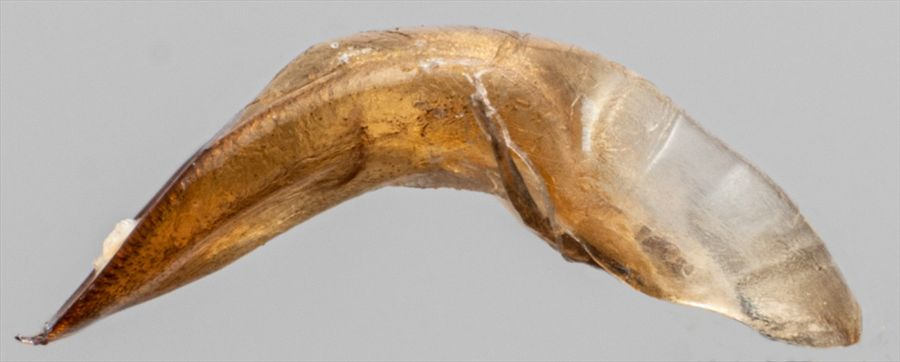
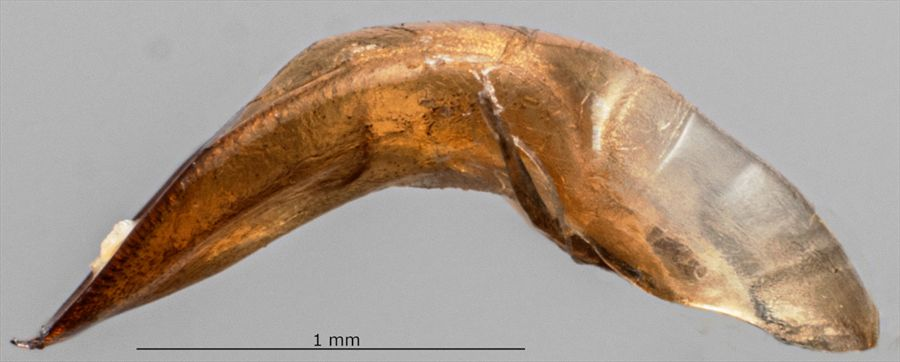
updated Ta132 fact sheet

Changed region(s): [[0.0, 0.0304, 1.0, 1.0], [0.1556, 0.9116, 0.5911, 0.9724]]

diff --git a/key/trachymela/Media/Html/Ta132.htm b/key/trachymela/Media/Html/Ta132.htm
@@ -31,7 +31,7 @@
           </td>
         </tr>
         <tr>
-          <td valign="top" align="left" id="left_menuTextarea"><a href="#top" class="left_menu"><strong>Top</strong></a><br><br><a href="#Name">Name</a><br><a href="#Reference specimen">Reference specimen</a><br><a href="#Adult Description">Adult Description</a><br><a href="#Larvae">Larvae</a><br><a href="#Eggs">Eggs</a><br><a href="#Similar species">Similar species</a><br><a href="#Notes">Notes</a><br></td>
+          <td valign="top" align="left" id="left_menuTextarea"><a href="#top" class="left_menu"><strong>Top</strong></a><br><br><a href="#Name">Name</a><br><a href="#Reference specimen">Reference specimen</a><br><a href="#Adult Description">Adult Description</a><br><a href="#Immature Stages">Immature Stages</a><br><a href="#Similar species">Similar species</a><br><a href="#Notes">Notes</a><br></td>
         </tr>
         <tr>
           <td height="16" align="left" style="height:16px; width:100%; background-color: #8b6b43;" valign="bottom">
@@ -46,21 +46,47 @@
       <div class="bannertitle" id="title">Ta132</div><a name="Name"></a><h1 class="" style="">Name</h1>
 <P><STRONG><FONT size=4><EM>Trachymela </EM>sp. Ta132</FONT></STRONG></P>
 <a name="Reference specimen"></a><h1 class="" style="">Reference specimen</h1>
-<P><FONT size=4>2007-170e, Tanami Road, Northern Territory.</FONT></P>
+<P><FONT size=3>2007-170e, Tanami Road, Northern Territory.</FONT></P>
 <a name="Adult Description"></a><h1 class="" style="">Adult Description</h1>
-<P><FONT size=4><B><U>Length:</U></B> ♀ 5.9-8.1 mm [8], ♂ 5.7-7.0 mm [6].</FONT></P>
-<P><FONT size=4><B><U>Colour:</U></B>&nbsp; <U>head</U> light- to mid-brown, usually with a pair of black patches behind <A title="<P>&nbsp;</P>" class="fsf_tooltip" href="glossary.htm#Morphology_fronto-clypeal suture">fronto-clypeal suture</A>, one on each side between eye and central suture that is very variable in size, sometimes large and even merging across central suture and extending a little into posterior of clypeus, sometimes much smaller or reduced to two darker-brown patches, less often completely absent, <A title="<p>The flat, smooth structure that covers the mandibles from above, forming the roof of the mouth.</p>" class="fsf_tooltip" href="glossary.htm#Morphology_labrum">labrum</A> yellow-brown, mandibles brown with black tips; antennomeres 1-5 straw-brown, 7-11 similar or grading fractionally to slightly darker; <U>pronotum</U>: brown, same shade as head, usually with black markings present as follows: a short black line on each side of discal area extending from close to anterior edge towards posterior edge and terminating anterior to middle of pronotum, foveal area with central black peak and another small black round mark between it and <A title="<p>The humeral callus (pl: humeral calli) is a&nbsp;more or less rounded tuberculate elevation of the elytral surface situated just above and behind the humerus.</p>" class="fsf_tooltip" href="glossary.htm#Morphology_humeral callus">humeral callus</A> just anterior to posterior margin, these two spots usually connected by a curved black line extending along inside edge of foveal area roughly in shape of a “c” with its open side facing laterally, sometimes some or, rarely, all of these markings are absent; <U><A title="<p>The scutellum is a&nbsp;triangular piece that is part of the dorsal surface of the mesothorax situated between the bases of the elytra and the pronotum.</p>" class="fsf_tooltip" href="glossary.htm#Morphology_scutellum">scutellum</A></U>: brown, same shade as adjacent area of pronotum, with lateral edges lined in a slightly darker shade;&nbsp; <U><A title="<p>The anterior, chitinous wings that serve as the coverings&nbsp;for the hind wings.&nbsp; At rest, these meet in a straight line down the middle termed the elytral suture.</p>" class="fsf_tooltip" href="glossary.htm#Morphology_elytra">elytra</A></U>: brown, same shade as pronotum, rarely completely so, more often with black markings as follows: a black ridge extends posteriorly from base centred between <A title="<p>The scutellum is a&nbsp;triangular piece that is part of the dorsal surface of the mesothorax situated between the bases of the elytra and the pronotum.</p>" class="fsf_tooltip" href="glossary.htm#Morphology_scutellum">scutellum</A> and <A title="<p>The humeral callus (pl: humeral calli) is a&nbsp;more or less rounded tuberculate elevation of the elytral surface situated just above and behind the humerus.</p>" class="fsf_tooltip" href="glossary.htm#Morphology_humeral callus">humeral callus</A> and in line with the black line on pronotum, sometimes this ridge extends as a black line of <A title="<p>Verrucae (singular: verruca) are small to medium-sized wart-like elevations on the surface of the elytra.&nbsp; They are often darker than the integument, but may be of a similar colour.&nbsp; Frequently, they have a small puncture at their centre.&nbsp; The size,&nbsp;arrangement and colour of the verrucae is an important character in the identification of <EM>Trachymela </EM>species.</p>" class="fsf_tooltip" href="glossary.htm#Morphology_verrucae">verrucae</A> almost to elytral apex, with an interruption always at a depression just in front of summit, some black <A title="<p>Verrucae (singular: verruca) are small to medium-sized wart-like elevations on the surface of the elytra.&nbsp; They are often darker than the integument, but may be of a similar colour.&nbsp; Frequently, they have a small puncture at their centre.&nbsp; The size,&nbsp;arrangement and colour of the verrucae is an important character in the identification of <EM>Trachymela </EM>species.</p>" class="fsf_tooltip" href="glossary.htm#Morphology_verrucae">verrucae</A> are scattered between it and humeral callus near its anterior end, an often broader black band parallels the first line in the posterior half of disc, about halfway between it and discal margin, other small black or dark-brown verrucae may be scattered over disc, especially along its lateral margin, a small common black area is situated across suture at its summit, punctures, humeral callus black if other black markings are present; <U>venter</U>: almost uniformly light- to mid-brown, thoracic ventrites sometimes slightly darker, legs sometimes paler, inside surface of elytral epipleura brown.&nbsp; <B><U>Cuticular wax:</U></B> grey to light-brown in colour, scattered relatively evenly and sparsely to moderately densely over head and pronotum, cover is quite light over <A title="<p>The anterior, chitinous wings that serve as the coverings&nbsp;for the hind wings.&nbsp; At rest, these meet in a straight line down the middle termed the elytral suture.</p>" class="fsf_tooltip" href="glossary.htm#Morphology_elytra">elytra</A>, except for a thicker layer of a paler, greyish shade in small patches (particularly adjacent to scutellum) along anterior margin, and between the verrucae in some of the longitudinally aligned series, with the latter appearing as pale dashed lines on the slightly darker background.</FONT></P>
-<P><FONT size=4><B><U>Shape:</U></B> narrow and relatively thin, evenly rounded from scutellum to about 20% of distance from apex, where curvature increases considerably, sometimes slightly flattened around maximum height, height=39-45%BL, greatest height viewed laterally is a little in front of, or less often, quite close to middle of elytral margin.&nbsp; <B><U>Head</U>;</B> punctures small (pd~1-2xef) and relatively evenly and densely packed. Antennae short (AL ♂=31-35%BL, ♀=29-32%BL), filiform.&nbsp; <B><U>Pronotum</U></B>; almost evenly curved transversely, usually with a noticeable explanation very close to lateral margin, <A title="<P>&nbsp;</P>" class="fsf_tooltip" href="glossary.htm#Morphology_foveal depression">foveal depression</A> present at anterior edge with an almost round and more finely punctured or even unpunctured pustule in middle of foveal area, discal area very slightly rugulose, the anterior half of its lateral boundary sometimes in the form of a slightly raised (black) ridge, a very thin and often interrupted central longitudinal ridge often present, punctures clearly impressed and mostly evenly and densely distributed, size fractionally larger than those on head, a scatter of much finer punctures among them, punctures become coarser from <A title="<P>&nbsp;</P>" class="fsf_tooltip" href="glossary.htm#Morphology_foveal depression">foveal depression</A> to lateral margins.&nbsp; Front margins join lateral margins in a smoothly rounded right-angle, with lateral margin often almost straight for some distance before curving smoothly towards rear margin.&nbsp; <B><U>Scutellum</U></B>; punctured, punctures similar in size and density to those on adjacent area of pronotum, less often, punctures are larger and less well defined.&nbsp; <B><U>Elytra</U></B>; surface evenly curved transversely, punctures large and distinct and relatively evenly distributed on anterior half, with much smaller punctures scattered sparingly on the <A title="<p>The space between punctures.</p>" class="fsf_tooltip" href="glossary.htm#Morphology_interstices">interstices</A>, many smooth, elevated mostly round verrucae, some with small central punctures are scattered over elytral surface (see colour above for arrangement), surface continuous under humeral callus; posterior third of suture carinate, posterior third of marginal area prominently concave, usually with a row of widely spaced verrucae along its centre.&nbsp; Vertical extension of epipleura moderate (H<SUB>CE</SUB>/PW=0.35-0.38).&nbsp; <B><U>Venter</U></B>; <A title="<P>&nbsp;</P>" class="fsf_tooltip" href="glossary.htm#Morphology_prosternal process">Prosternal process</A> narrowest anteriorly to almost parallel-sided, open or closed anteriorly, short setae sparsely distributed over <A title="<P>&nbsp;</P>" class="fsf_tooltip" href="glossary.htm#Morphology_prosternal process">prosternal process</A>, absent from mesosternum, a single seta on anterior and median <A title="<P>&nbsp;</P>" class="fsf_tooltip" href="glossary.htm#Morphology_trochanter">trochanter</A>; front edge of metasternum beveled, rounded; inner edge of posterior of epipleura lacking setae or with some scattered, inconspicuous ones.&nbsp; <B><U>Aedeagus</U></B>; moderate-sized (<A title="<P>&nbsp;</P>" class="fsf_tooltip" href="glossary.htm#Morphology_LPE">LPE</A>=32-35%BL), in dorsal view, sides noticeably sinuate, converging slightly and evenly from basal sulcus to about middle then diverging similarly towards widest point at about centre of <A title="<P>&nbsp;</P>" class="fsf_tooltip" href="glossary.htm#Morphology_ostium">ostium</A>, from where sides converge towards apex in a smooth and gradual arc, dorsal surface with well-defined dorso-median channel and dorsolateral channels resulting in two long ostial flaps protruding forward to some distance behind <A title="<P>&nbsp;</P>" class="fsf_tooltip" href="glossary.htm#Morphology_spatula">spatula</A>, ostial depression roughly oval, but posterior extent not well defined, merging into the weakly sclerotized surface behind it; tip small and smoothly triangular; in lateral view, curved smoothly through about 45⁰ between basal sulcus and middle of central section, then ventral surface almost straight to apex, dorsal surface straight a very short distance past bend, then converging evenly towards ventral surface, tip deflexed.</FONT></P>
-<a name="Larvae"></a><h1 class="" style="">Larvae</h1>
-<P><FONT size=4>unknown.</FONT></P>
-<a name="Eggs"></a><h1 class="" style="">Eggs</h1>
-<P><FONT size=4>unknown.</FONT></P>
+<P><FONT size=3><B><U>Length:</U></B> ♂ 5.7–7.0 mm (n=6), ♀ 5.9–8.1 mm (n=8).</FONT></P>
+<P><FONT size=3><B><U>Colouration:</U></B></FONT></P>
+<UL style="PADDING-LEFT: 1.2em; MARGIN-LEFT: 0px">
+<LI><FONT size=3><B>Head:</B> light- to mid-brown, usually with a pair of black&nbsp;maculae behind <A title="<P>&nbsp;</P>" class="fsf_tooltip" href="glossary.htm#Morphology_fronto-clypeal suture">fronto-clypeal suture</A>, one on each side between eye and central suture that is very variable in size, sometimes large and even merging across central suture and extending a little into posterior of clypeus, sometimes much smaller or reduced to two darker-brown maculae, less often completely absent; <A title="<p>The flat, smooth structure that covers the mandibles from above, forming the roof of the mouth.</p>" class="fsf_tooltip" href="glossary.htm#Morphology_labrum">labrum</A> yellow-brown, mandibles brown with black tips; antennomeres 1–5 straw-brown, 7–11 similar or grading fractionally to slightly darker.</FONT> 
+<LI><FONT size=3><B>Pronotum:</B> brown, concolorous with head, usually with black markings present as follows: a short black line on each side of discal area extending from close to anterior edge towards posterior edge and terminating anterior to middle of pronotum, foveal area with central black peak and another small black round mark between it and <A title="<p>The humeral callus (pl: humeral calli) is a&nbsp;more or less rounded tuberculate elevation of the elytral surface situated just above and behind the humerus.</p>" class="fsf_tooltip" href="glossary.htm#Morphology_humeral callus">humeral callus</A> just anterior to posterior margin, these two spots usually connected by a curved black line extending along inside edge of foveal area roughly in shape of a “c” with its open side facing laterally, sometimes some or, rarely, all of these markings are absent.</FONT> 
+<LI><FONT size=3><B>Scutellum:</B> brown, concolorous with adjacent area of pronotum, with lateral edges lined in a slightly darker shade.</FONT> 
+<LI><FONT size=3><B>Elytra:</B> brown, concolorous with pronotum, rarely completely so, more often with black markings as follows: a black ridge extends posteriorly from base centred between <A title="<p>The scutellum is a&nbsp;triangular piece that is part of the dorsal surface of the mesothorax situated between the bases of the elytra and the pronotum.</p>" class="fsf_tooltip" href="glossary.htm#Morphology_scutellum">scutellum</A> and <A title="<p>The humeral callus (pl: humeral calli) is a&nbsp;more or less rounded tuberculate elevation of the elytral surface situated just above and behind the humerus.</p>" class="fsf_tooltip" href="glossary.htm#Morphology_humeral callus">humeral callus</A> and in line with the black line on pronotum, sometimes this ridge extends as a black line of <A title="<p>Verrucae (singular: verruca) are small to medium-sized wart-like elevations on the surface of the elytra.&nbsp; They are often darker than the integument, but may be of a similar colour.&nbsp; Frequently, they have a small puncture at their centre.&nbsp; The size,&nbsp;arrangement and colour of the verrucae is an important character in the identification of <EM>Trachymela </EM>species.</p>" class="fsf_tooltip" href="glossary.htm#Morphology_verrucae">verrucae</A> almost to elytral apex, with an interruption always at a depression just in front of summit, some black <A title="<p>Verrucae (singular: verruca) are small to medium-sized wart-like elevations on the surface of the elytra.&nbsp; They are often darker than the integument, but may be of a similar colour.&nbsp; Frequently, they have a small puncture at their centre.&nbsp; The size,&nbsp;arrangement and colour of the verrucae is an important character in the identification of <EM>Trachymela </EM>species.</p>" class="fsf_tooltip" href="glossary.htm#Morphology_verrucae">verrucae</A> are scattered between it and humeral callus near its anterior end, an often broader black band parallels the first line in the posterior half of disc, about halfway between it and discal margin, other small black or dark-brown verrucae may be scattered over disc, especially along its lateral margin, a small common black area is situated across suture at its summit, punctures, humeral callus black if other black markings are present.</FONT> 
+<LI><FONT size=3><B>Venter &amp; Legs:</B> venter almost uniformly light- to mid-brown, thoracic ventrites sometimes slightly darker, legs sometimes paler, inside surface of elytral epipleura brown.</FONT> 
+<LI><FONT size=3><B>Cuticular Wax:</B> grey to light-brown in colour, distributed relatively evenly and sparsely to moderately densely over head and pronotum, cover is quite light over <A title="<p>The anterior, chitinous wings that serve as the coverings&nbsp;for the hind wings.&nbsp; At rest, these meet in a straight line down the middle termed the elytral suture.</p>" class="fsf_tooltip" href="glossary.htm#Morphology_elytra">elytra</A>, except for a thicker layer of a paler, greyish shade in small patches (particularly adjacent to <A title="<p>The scutellum is a&nbsp;triangular piece that is part of the dorsal surface of the mesothorax situated between the bases of the elytra and the pronotum.</p>" class="fsf_tooltip" href="glossary.htm#Morphology_scutellum">scutellum</A>) along anterior margin, and between the verrucae in some of the longitudinally aligned series, with the latter appearing as pale dashed lines on the slightly darker background.</FONT></LI></UL>
+<P><FONT size=3><B><U>Morphology:</U></B></FONT></P>
+<UL style="PADDING-LEFT: 1.2em; MARGIN-LEFT: 0px">
+<LI><FONT size=3><B>Shape:</B> narrow and relatively thin, evenly rounded from scutellum to about 20% of distance from apex, where curvature increases considerably, sometimes slightly flattened around maximum height, height = 39–45% BL, greatest height viewed laterally is a little in front of, or less often, quite close to middle of elytral margin.</FONT> 
+<LI><FONT size=3><B>Head:</B> punctures small (pd ≈ 1–2× ef) and relatively evenly and densely distributed. Antennae short (AL: ♂ 31–35% BL, ♀ 29–32% BL), filiform.</FONT> 
+<LI><FONT size=3><B>Pronotum:</B> almost evenly curved transversely, usually with a noticeable explanation very close to lateral margin, <A title="<P>&nbsp;</P>" class="fsf_tooltip" href="glossary.htm#Morphology_foveal depression">foveal depression</A> present at anterior edge with an almost round and more finely punctured or even unpunctured pustule in middle of foveal area, discal area very slightly rugulose, the anterior half of its lateral boundary sometimes in the form of a slightly raised (black) ridge, a very thin and often interrupted central longitudinal ridge often present, punctures clearly impressed and mostly evenly and densely distributed, size fractionally larger than those on head, a scatter of much finer punctures among them, punctures become coarser from <A title="<P>&nbsp;</P>" class="fsf_tooltip" href="glossary.htm#Morphology_foveal depression">foveal depression</A> to lateral margins; front margins join lateral margins in a smoothly rounded right-angle, with lateral margin often almost straight for some distance before curving smoothly towards rear margin.</FONT> 
+<LI><FONT size=3><B>Scutellum:</B> punctured, punctures similar in size and density to those on adjacent area of pronotum, less often, punctures are larger and less well defined.</FONT> 
+<LI><FONT size=3><B>Elytra:</B> surface evenly curved transversely, punctures large and distinct and relatively evenly distributed on anterior half, with much smaller punctures scattered sparingly on the <A title="<p>The space between punctures.</p>" class="fsf_tooltip" href="glossary.htm#Morphology_interstices">interstices</A>, many smooth, elevated mostly round verrucae, some with small central punctures are scattered over elytral surface, surface continuous under humeral callus; posterior third of suture carinate, posterior third of marginal area prominently concave, usually with a row of widely spaced verrucae along its centre; vertical extension of epipleura moderate (HCE/PW = 0.35–0.38).</FONT> 
+<LI><FONT size=3><B>Venter:</B> <A title="<P>&nbsp;</P>" class="fsf_tooltip" href="glossary.htm#Morphology_prosternal process">prosternal process</A> narrowest anteriorly to almost parallel-sided, open or closed anteriorly, short setae sparsely distributed over <A title="<P>&nbsp;</P>" class="fsf_tooltip" href="glossary.htm#Morphology_prosternal process">prosternal process</A>, absent from mesoventrite, a single seta on anterior and median <A title="<P>&nbsp;</P>" class="fsf_tooltip" href="glossary.htm#Morphology_trochanter">trochanter</A>; front edge of metaventrite beveled, rounded; inner edge of posterior of epipleura lacking setae or with some scattered, inconspicuous ones.</FONT></LI></UL>
+<P><FONT size=3><B><U>Male Genitalia (Aedeagus):</U></B></FONT></P>
+<UL style="PADDING-LEFT: 1.2em; MARGIN-LEFT: 0px">
+<LI><FONT size=3><B>Dimensions:</B> moderate-sized (<A title="<P>&nbsp;</P>" class="fsf_tooltip" href="glossary.htm#Morphology_LPE">LPE</A> = 32–35% BL).</FONT> 
+<LI><FONT size=3><B>Dorsal view:</B> sides of shaft noticeably sinuate, converging slightly and evenly from basal sulcus to about middle then diverging similarly towards widest point at about centre of <A title="<P>&nbsp;</P>" class="fsf_tooltip" href="glossary.htm#Morphology_ostium">ostium</A>, from where sides converge towards apex in a smooth and gradual arc; dorsal surface with well-defined dorso-median channel and dorsolateral channels resulting in two long dorsal ostial processes protruding forward to some distance behind <A title="<P>&nbsp;</P>" class="fsf_tooltip" href="glossary.htm#Morphology_spatula">spatula</A>; ostial depression roughly oval, but posterior extent not well defined, merging into the weakly sclerotized surface behind it; tip small and smoothly triangular.</FONT> 
+<LI><FONT size=3><B>Lateral view:</B> shaft curved smoothly through about 45° between basal sulcus and middle of central section, then ventral surface almost straight to apex, dorsal surface straight a very short distance past curve, then converging evenly towards ventral surface, tip deflexed.</FONT></LI></UL>
+<a name="Immature Stages"></a><h1 class="" style="">Immature Stages</h1>
+<P>
+<UL style="PADDING-LEFT: 1.2em; MARGIN-LEFT: 0px">
+<P><FONT size=3>Unknown.</FONT></P></UL>
+<P></P>
 <a name="Similar species"></a><h1 class="" style="">Similar species</h1>
-<P><FONT size=4><B><A href="Ta87.htm">Ta87</A></B> – the pattern of black markings on the elytra of this species can be remarkably like that of the very variable <B><A href="Ta87.htm">Ta87</A></B>, and the two species are of very similar size and shape.&nbsp; <B><A href="Ta87.htm">Ta87</A></B> differs from <B>Ta132</B> in the black markings of the prothorax which consist of a black line on each side of the discal area that extends from the anterior to posterior margins, and at most a small black dot in the middle of the foveal area.&nbsp; <B><A href="Ta87.htm">Ta87</A></B> clearly differs from <B>Ta132</B> in the possession of the “ovate <A title="<P>&nbsp;</P>" class="fsf_tooltip" href="glossary.htm#Morphology_ostium">ostium</A>” form of <A title="<p>The male reproductive organ</p>" class="fsf_tooltip" href="glossary.htm#Morphology_aedeagus">aedeagus</A>. </FONT></P>
-<P><FONT size=4><B>Ta195</B> – these two species are similar in most respects, including body size and black markings when they are present.&nbsp; The transverse elytral ridge, which is either absent or barely discernable in <B>Ta132</B>, is usually much better developed in <B>Ta195</B>.&nbsp; The shape of the <A title="<p>The male reproductive organ</p>" class="fsf_tooltip" href="glossary.htm#Morphology_aedeagus">aedeagus</A> is very similar in these two species, but that of <B>Ta195</B> is 20% shorter and noticeably narrower.</FONT></P>
+<P>
+<UL style="PADDING-LEFT: 1.2em; MARGIN-LEFT: 0px">
+<LI><FONT size=3><B><A href="Ta87.htm"><B>Ta87</B></A>:</B> The pattern of black markings on the <A title="<p>The anterior, chitinous wings that serve as the coverings&nbsp;for the hind wings.&nbsp; At rest, these meet in a straight line down the middle termed the elytral suture.</p>" class="fsf_tooltip" href="glossary.htm#Morphology_elytra">elytra</A> of <B><A href="Ta87.htm"><B>Ta87</B></A></B> can be remarkably like that of the very variable <B><A href="Ta87.htm"><B>Ta87</B></A></B>, and the two species are of very similar size and shape. <B><A href="Ta87.htm"><B>Ta87</B></A></B> differs from <B>Ta132</B> in the black markings of the prothorax which consist of a black line on each side of the discal area that extends from the anterior to posterior margins, and at most a small black dot in the middle of the foveal area. <B><A href="Ta87.htm"><B>Ta87</B></A></B> clearly differs from <B>Ta132</B> in the possession of the “ovate <A title="<P>&nbsp;</P>" class="fsf_tooltip" href="glossary.htm#Morphology_ostium">ostium</A>” form of <A title="<p>The male reproductive organ</p>" class="fsf_tooltip" href="glossary.htm#Morphology_aedeagus">aedeagus</A>.</FONT> 
+<LI><FONT size=3><B><B>Ta195</B>:</B> These two species are similar in most respects, including body size and black markings when they are present. The transverse elytral ridge, which is either absent or barely discernable in <B>Ta132</B>, is usually much better developed in <B>Ta195</B>. The shape of the <A title="<p>The male reproductive organ</p>" class="fsf_tooltip" href="glossary.htm#Morphology_aedeagus">aedeagus</A> is very similar in these two species, but that of <B>Ta195</B> is 20% shorter and noticeably narrower.</FONT></LI></UL>
+<P></P>
 <a name="Notes"></a><h1 class="" style="">Notes</h1>
-<P><FONT size=4>This species as characterized here is quite variable in the extent of the black dorsal markings.&nbsp; The most common form has the black markings as described above.&nbsp; Two specimens that have no dorsal black markings at all were caught from the same Tanami Road site as several others more typical of the species.&nbsp; One of these is a male and its aedeagus is the same shape as that of more typical forms of this species, while the dimensions are also those expected for a male of that size.&nbsp; The two male specimens from Clermont, central Queensland, are slightly and subtly different in the shape of the aedeagus and the form of the verrucae on the elytra and may represent a separate species.</FONT></P>
-<P><FONT size=4>The western and central Australian specimens of <B>Ta132</B> were collected from smooth-barked coolibah, <I>Eucalyptus victrix</I> (Symphyomyrtus : Adnataria), while the specimens from central Queensland were found on unidentified box and ironbarks species (also Symphyomyrtus : Adnataria).</FONT></P><div class="copyright" xmlns:local="urn:local">
+<P>
+<UL style="PADDING-LEFT: 1.2em; MARGIN-LEFT: 0px">
+<LI><FONT size=3><B>Morphological Variation:</B> This species as characterized here is quite variable in the extent of the black dorsal markings. The most common form has the black markings as described above. Two specimens that have no dorsal black markings at all were caught from the same Tanami Road site as several others more typical of the species. One of these is a male and its aedeagus is the same shape as that of more typical forms of this species, while the dimensions are also those expected for a male of that size. The two male specimens from Clermont, central Queensland, are slightly and subtly different in the shape of the aedeagus and the form of the verrucae on the elytra and may represent a separate species.</FONT> 
+<LI><FONT size=3><B>Host Associations:</B> Western and central Australian specimens of <B>Ta132</B> were collected from smooth-barked coolibah, <I>Eucalyptus victrix</I> (subgenus <I>Symphyomyrtus</I>: section <I>Adnataria</I>), while specimens from central Queensland were found on unidentified box and ironbark species (also <I>Symphyomyrtus</I>: <I>Adnataria</I>).</FONT></LI></UL>
+<P></P><div class="copyright" xmlns:local="urn:local">
         <p>Copyright © 2026. All rights reserved.</p>
         <div id="button-previousnext"></div>
       </div>
